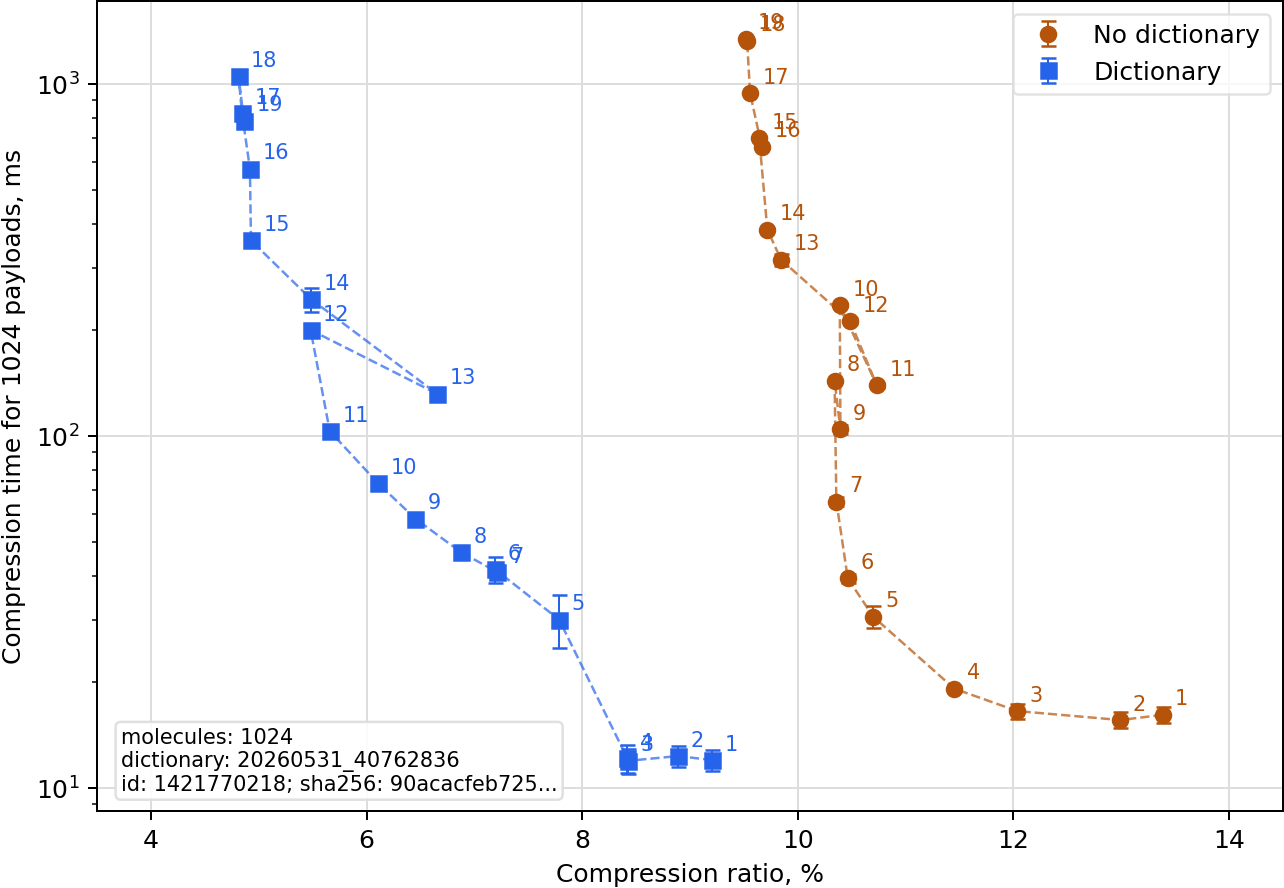
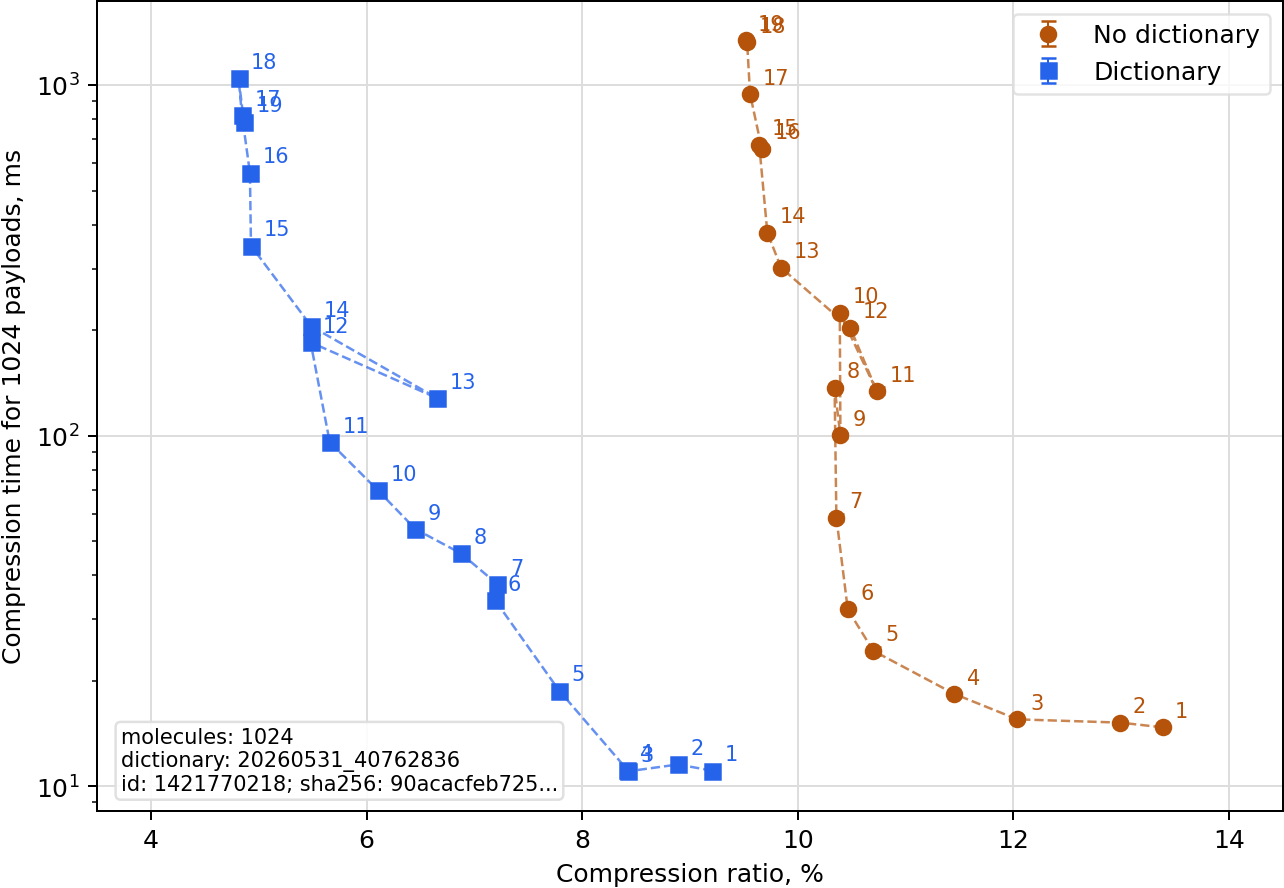
Record zstd timing environment

diff --git a/scripts/prepared_mol_zstd_timings_measure.py b/scripts/prepared_mol_zstd_timings_measure.py
@@ -31,6 +31,27 @@ grimace: Any | None = None
 
 
 @dataclass(frozen=True, slots=True)
+class BenchmarkEnvironment:
+    recorded_at_utc: str
+    git_commit: str
+    git_change: str
+    git_dirty: bool
+    platform: str
+    python: str
+    rdkit: str
+    zstandard: str
+    zstd_library: str
+    cpu_model: str | None
+    visible_cpus: int | None
+    cgroup_memory_limit_bytes: int | None
+    container: str
+
+    @classmethod
+    def fieldnames(cls) -> tuple[str, ...]:
+        return tuple(cls.__dataclass_fields__.keys())
+
+
+@dataclass(frozen=True, slots=True)
 class TimingRow:
     sample_count: int
     sample_policy: str
@@ -156,6 +177,33 @@ def _dictionary() -> DictionaryArtifact:
         artifact=artifact_dir.name,
         dictionary_id=manifest["zstd_dictionary_id"],
         dictionary_sha256=manifest["zstd_dictionary_sha256"],
+    )
+
+
+def _benchmark_environment() -> BenchmarkEnvironment:
+    assert zstd is not None
+
+    from tests.perf._history import current_run_metadata
+
+    run = current_run_metadata()
+    machine = run["machine"]
+    return BenchmarkEnvironment(
+        recorded_at_utc=run["recorded_at_utc"],
+        git_commit=run["git_commit"],
+        git_change=run["git_change"],
+        git_dirty=run["git_dirty"],
+        platform=run["platform"],
+        python=run["python"],
+        rdkit=run["rdkit"],
+        zstandard=zstd.__version__,
+        zstd_library=".".join(str(part) for part in zstd.ZSTD_VERSION),
+        cpu_model=machine["cpu_model"],
+        visible_cpus=machine["visible_cpus"],
+        cgroup_memory_limit_bytes=machine["cgroup_memory_limit_bytes"],
+        container=(
+            "compose/prepared-mol-zstd-timings.yml "
+            "prepared-mol-zstd-timings service, network disabled"
+        ),
     )
 
 
@@ -327,6 +375,7 @@ def main(argv: list[str]) -> int:
     sample_source_rows_sha256 = sample.source_rows_sha256
     sample_cids_sha256 = sample.cids_sha256
     dictionary = _dictionary()
+    environment = _benchmark_environment()
 
     rows: list[TimingRow] = []
     for level in args.levels:
@@ -360,13 +409,14 @@ def main(argv: list[str]) -> int:
     with args.output.open("w", encoding="utf-8", newline="") as handle:
         writer = csv.DictWriter(
             handle,
-            fieldnames=TimingRow.fieldnames(),
+            fieldnames=BenchmarkEnvironment.fieldnames() + TimingRow.fieldnames(),
             dialect="excel-tab",
             lineterminator="\n",
         )
         writer.writeheader()
+        environment_payload = asdict(environment)
         for row in rows:
-            writer.writerow(asdict(row))
+            writer.writerow({**environment_payload, **asdict(row)})
     print(f"Wrote {args.output}")
     return 0
 

diff --git a/scripts/prepared_mol_zstd_timings_plot.py b/scripts/prepared_mol_zstd_timings_plot.py
@@ -149,6 +149,19 @@ def main(argv: list[str]) -> int:
         raise SystemExit("Timing input must use one sample_count")
     sample_count = next(iter(sample_counts))
     for field in (
+        "recorded_at_utc",
+        "git_commit",
+        "git_change",
+        "git_dirty",
+        "platform",
+        "python",
+        "rdkit",
+        "zstandard",
+        "zstd_library",
+        "cpu_model",
+        "visible_cpus",
+        "cgroup_memory_limit_bytes",
+        "container",
         "sample_policy",
         "sample_seed",
         "sample_source_rows_sha256",

diff --git a/tests/checks/test_container_posture.py b/tests/checks/test_container_posture.py
@@ -213,6 +213,18 @@ class ContainerPostureTests(unittest.TestCase):
             compose,
             r"(?ms)^\s+security_opt:\n\s+- no-new-privileges:true\s*$",
         )
+        self.assertIn(
+            'GRIMACE_PERF_GIT_COMMIT: "${GRIMACE_PERF_GIT_COMMIT:-}"',
+            compose,
+        )
+        self.assertIn(
+            'GRIMACE_PERF_GIT_CHANGE: "${GRIMACE_PERF_GIT_CHANGE:-}"',
+            compose,
+        )
+        self.assertIn(
+            'GRIMACE_PERF_GIT_DIRTY: "${GRIMACE_PERF_GIT_DIRTY:-}"',
+            compose,
+        )
         self.assertIn("MPLCONFIGDIR: /tmp/matplotlib", compose)
         self.assertIn("source: ../docs/prepared-mol-zstd-timings.tsv", compose)
         self.assertIn(